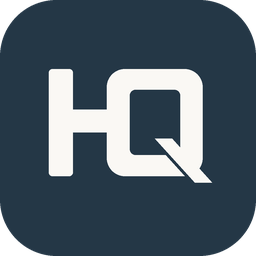
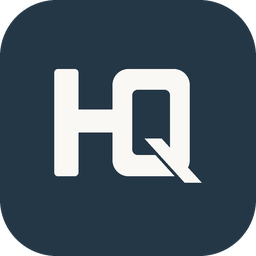
Slimmer Q in the HQ tiles (#17)

diff --git a/NOTES.md b/NOTES.md
@@ -2,6 +2,8 @@
 
 ## 2026-10-12
 
+- Slimmer Q (app ADR-0038 amendment, homehq#337): the founder found the first Q too
+  wide; `brand/` tiles replaced with the regenerated ones, byte for byte.
 - Balanced HQ logo (app ADR-0038): `brand/` holds the tiles generated by the app
   repo's `scripts/generate-brand-assets.py` (`docs/brand/`), copied byte for byte.
   Every page links the dark tile as its favicon plus the 180 px touch icon; the
